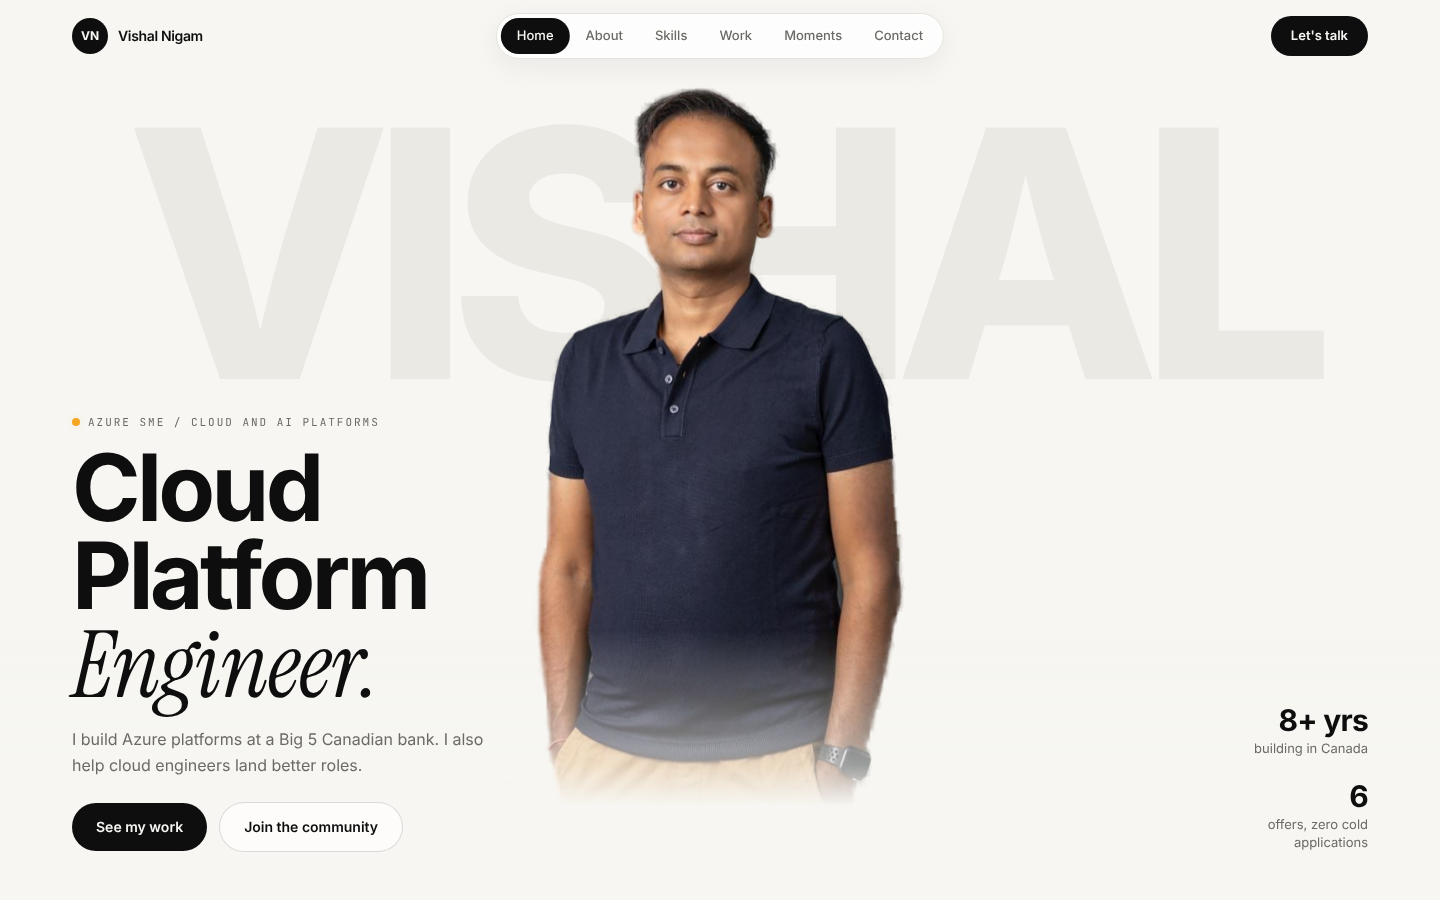
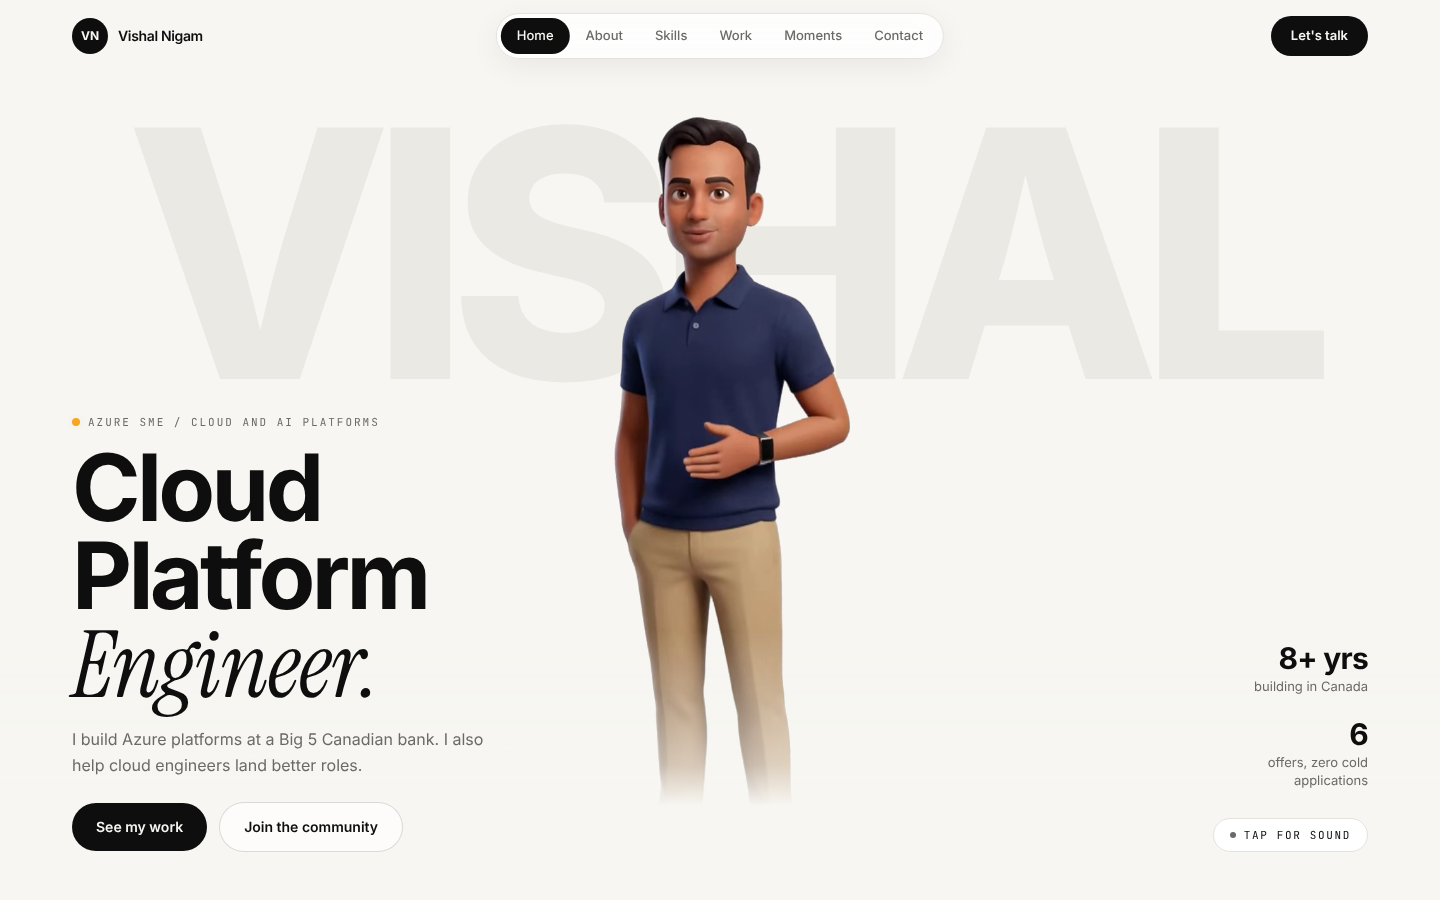
README: step-by-step animated hero guide with two paths
Path 1 makes a cartoon image, Path 2 makes it talk in your voice. Web
tools only, no command line. White .jpg and .mp4 backgrounds now blend
into the page automatically, so downloaded files work as-is.

Claude-Session: https://claude.ai/code/session_01KDsvCvMFaFZr7ZncqejwsZ

Changed region(s): [[0.375, 0.0933, 0.625, 0.9022], [0.875, 0.7156, 0.9688, 0.9022], [0.875, 0.9022, 0.9375, 0.9644]]

diff --git a/src/components/Hero.tsx b/src/components/Hero.tsx
@@ -49,6 +49,12 @@ export function Hero() {
     if (webkitOnly || ios) return false;
     return document.createElement('video').canPlayType('video/webm; codecs="vp9"') !== '';
   });
+  // MP4 and JPG files cannot be transparent, so we assume they sit on white.
+  // Multiply-blending the whole avatar layer makes that white disappear into the page,
+  // so people can drop in a downloaded file with no editing. PNG, WebP and the
+  // transparent WebM already have real transparency and skip the blend.
+  const shown = hero.video ? (alpha ? hero.videoTransparent! : hero.video) : hero.poster;
+  const blendWhite = !!shown && /\.(mp4|mov|m4v|jpe?g)(\?|$)/i.test(shown);
 
   return (
     <section id="home" ref={ref} className="relative h-[100svh] min-h-[620px] overflow-hidden bg-paper">
@@ -78,7 +84,9 @@ export function Hero() {
         initial={reduce ? false : { opacity: 0, y: 60 }}
         animate={{ opacity: 1, y: 0 }}
         transition={{ duration: 1.4, delay: 0.35, ease }}
-        className="absolute bottom-0 left-1/2 h-[72svh] w-full max-w-[640px] -translate-x-1/2 origin-bottom md:h-[90svh]"
+        className={`absolute bottom-0 left-1/2 h-[72svh] w-full max-w-[640px] -translate-x-1/2 origin-bottom md:h-[90svh] ${
+          blendWhite ? 'mix-blend-multiply' : ''
+        }`}
       >
         {hero.video ? (
           <video

diff --git a/src/types.ts b/src/types.ts
@@ -14,16 +14,19 @@ export type HeroConfig = {
   /** Giant faded word behind your video. Usually your first name. */
   backdropWord: string;
   /**
-   * Your talking avatar. Put the file in /public/media and write "media/hero.mp4".
-   * Leave empty ("") to show a placeholder.
+   * Your talking avatar video. Put the file in /public/media and write "media/hero.mp4".
+   * Leave empty ("") to use only the image in `poster`. See README, "Create your animated hero".
    */
   video: string;
-  /** Optional still image shown before the video loads (or instead of a video). */
+  /**
+   * Your hero image: shown while the video loads, or on its own when `video` is empty.
+   * Use a .jpg on a white background (the white blends into the page) or a transparent .png.
+   */
   poster: string;
   /**
    * Optional. The same video with a transparent background (.webm, VP9 with alpha).
    * Chrome, Edge, Firefox and Android use it so your name shows around you.
-   * Safari and iPhone fall back to `video`. See docs/HERO-VIDEO.md.
+   * Safari and iPhone fall back to `video`. See README, "Optional extras for Path 2".
    */
   videoTransparent?: string;
   /** Optional transparent poster (.webp or .png) to pair with videoTransparent. */

diff --git a/src/portfolio.config.ts b/src/portfolio.config.ts
@@ -27,9 +27,10 @@ const config: PortfolioConfig = {
     title: 'Platform *Engineer.*',
     intro: 'I build cloud platforms that ship fast and stay up. Currently helping teams run Kubernetes at scale.',
     backdropWord: 'ALEX',
-    // Your talking video. See docs/HERO-VIDEO.md. Example: 'media/hero.mp4'
+    // Your animated hero. Full guide: README, "Create your animated hero".
+    // Path 1 (image only): video: '', poster: 'media/hero.jpg'
+    // Path 2 (talking video): video: 'media/hero.mp4', poster: 'media/hero.jpg'
     video: '',
-    // A cut-out photo of you on a transparent or white background. Example: 'media/hero.png'
     poster: '',
     // Optional: the same video with a transparent background (.webm) so your name shows around you.
     videoTransparent: '',

diff --git a/README.md b/README.md
@@ -7,7 +7,7 @@ Free to use. Live on GitHub Pages in about 15 minutes.
 
 **What you get**
 
-- **Talking hero.** You, standing center screen, with your name huge behind you.
+- **Animated hero.** A cartoon version of you, standing center screen, with your name huge behind you. It can wave and talk in your voice.
 - **Flipping ID badge** on a lanyard. Tap to flip, drag to swing.
 - **Periodic table of your tools.** Filter by Cloud, IaC, Containers, CI/CD, and more.
 - **Certifications, projects, and "proud moments"** that scroll sideways.
@@ -28,16 +28,17 @@ Name it `your-github-username.github.io` and your site will live at
 Any other name works too. Your site will be at `https://your-github-username.github.io/repo-name/`.
 
 ### 2. Turn on GitHub Pages
-In your new repo: **Settings > Pages > Source > GitHub Actions**. That's it.
+In your new repo: **Settings > Pages > Source > GitHub Actions**.
+
+Do this before your first edit. If Source stays on "Deploy from a branch", your site shows raw code instead of the finished page.
 
 ### 3. Add your details
 - Open `src/portfolio.config.ts` and click the pencil icon to edit it right on GitHub.
 - Replace every example with your own info. Titles accept `*word*` to make a word italic serif.
-- Upload your photos: open `public/media`, then **Add file > Upload files**.
-  - `hero.png`: you, background removed. See [docs/HERO-VIDEO.md](docs/HERO-VIDEO.md).
-  - `headshot.jpg`: a square headshot for the badge.
+- Upload your files: open `public/media`, then **Add file > Upload files**.
+  - Your hero image or video. See [Create your animated hero](#create-your-animated-hero) below.
+  - `headshot.jpg`: a square headshot for the badge. Then set `badge.photo: 'media/headshot.jpg'`.
   - `resume.pdf`: optional.
-- Point the config at them, for example `poster: 'media/hero.png'`.
 
 ### 4. Commit
 Click **Commit changes**. Open the **Actions** tab and wait for the green tick (about 2 minutes).
@@ -45,8 +46,171 @@ Your site is live.
 
 ---
 
-## Want the talking video?
-Follow [docs/HERO-VIDEO.md](docs/HERO-VIDEO.md). It has the exact AI prompt to turn your photo into a talking intro, and how to keep the file small.
+## Create your animated hero
+
+Pick the path that suits you. Both use web tools only. No code, no command line.
+
+| | Path 1: Animated image | Path 2: Talking animated video |
+|---|---|---|
+| What visitors see | A cartoon of you, gently floating | A cartoon of you that waves and talks in your voice |
+| Time | About 15 minutes | About 45 minutes |
+| Cost | About $0.15 to $0.60 | About $1 to $2 |
+| Tools | fal.ai | fal.ai, plus your phone or ElevenLabs |
+
+You can start with Path 1 today and upgrade to Path 2 later. Path 2 starts with the same image.
+
+Prices are what the tools charged when this guide was written. They change often, so check each tool's pricing page before you run anything.
+
+### Before you start
+1. **Create a fal.ai account** at [fal.ai](https://fal.ai) and add a small amount of credit, about $5.
+   fal runs the AI models. Every model page has a simple web form, called the playground, so you never touch code.
+2. **Take two photos** in good light, against a plain wall:
+   - **Full body**, standing straight, facing the camera, hands relaxed. Wear what you want your cartoon to wear.
+   - **Headshot**, face clearly visible, looking at the camera.
+
+---
+
+### Path 1: Animated image (no video)
+
+**Step 1. Turn your photos into a cartoon.**
+
+1. Open the [Nano Banana Pro edit](https://fal.ai/models/fal-ai/nano-banana-pro/edit) model page on fal.ai.
+2. Upload both photos: full body first, headshot second.
+3. Paste this prompt. Replace the part in [brackets] with your outfit.
+
+```
+Turn the person in the first photo into a stylized 3D animated character, like a modern
+animated feature film. Use the second photo for the face. Keep the likeness clearly
+recognizable: same face shape, hairline, skin tone, eye color and friendly expression.
+Same outfit: [for example: navy polo shirt, khaki chinos, black smartwatch].
+Full body, standing upright, centered, facing the camera, relaxed confident pose,
+hands loosely in pockets. Slightly stylized proportions, soft clean shading,
+appealing and professional, not childish.
+Background: plain pure white (#FFFFFF), seamless, no floor line, no shadow on the
+background, only a very soft contact shadow under the feet.
+No text, no logos, no props.
+```
+
+4. Set these options:
+   - **Aspect ratio:** `3:4`
+   - **Resolution:** `2K`
+   - **Output format:** `JPEG`
+   - **Number of images:** 2 to 4, so you can pick the best one.
+5. Click **Run**. Each image costs about $0.15. Download the one that looks most like you.
+
+> Not quite right? Run it again and add one fix to the end of the prompt, such as
+> "make the hairline match the photo" or "add his glasses".
+
+**Step 2. Add it to your site.**
+
+1. Rename the file to `hero.jpg` and upload it to `public/media`.
+2. In `src/portfolio.config.ts`, set:
+
+```ts
+video: '',
+poster: 'media/hero.jpg',
+```
+
+3. Commit. Done.
+
+**Why JPEG?** The site automatically blends a white background into the page, so your name shows around you. It does this for `.jpg` images and `.mp4` videos.
+If you remove the background yourself and save a transparent `.png`, that works too. Just point `poster` at the `.png`.
+
+---
+
+### Path 2: Talking animated video
+
+You need the cartoon from **Path 1, Step 1** first. Keep that image file.
+
+**Step 1. Record your voice line.**
+
+Keep it short, about 8 seconds. Here is a script you can adapt:
+
+```
+Hi, I'm [your name]. I build [what you build, for example: cloud platforms on AWS].
+Scroll down, let me show you.
+```
+
+Choose one:
+
+- **Your phone (free).** Record in a quiet room with the phone about 20 cm from your mouth. iPhone Voice Memos (`.m4a`) and Android recorder files both work.
+- **An AI voice clone ([ElevenLabs](https://elevenlabs.io)).** Clone your voice once, then type the script and download it as MP3. Voice cloning usually needs a paid plan, so check their pricing first.
+
+**Step 2. Make your cartoon talk.**
+
+1. Open the [Kling AI Avatar v2 Pro](https://fal.ai/models/fal-ai/kling-video/ai-avatar/v2/pro) model page on fal.ai.
+2. **Image:** upload your cartoon from Path 1.
+3. **Audio:** upload your voice recording.
+4. **Prompt:** paste this.
+
+```
+The animated character stands centered on a pure white background and talks warmly to
+the camera. A small friendly wave at the start, then relaxed natural hand gestures
+while speaking. Static camera, no zoom, no cuts. The background stays pure white.
+```
+
+5. Click **Run**. It takes about 3 to 5 minutes and costs about $0.12 per second of audio, so roughly $1 for 8 seconds.
+6. Watch the result. If the lip sync or motion looks off, run it once more. Each run comes out a little different.
+7. Download the video.
+
+**Step 3. Add it to your site.**
+
+1. Rename the video to `hero.mp4` and upload it to `public/media`.
+2. Also upload your cartoon image as `hero.jpg`. Visitors see it while the video loads.
+3. In `src/portfolio.config.ts`, set:
+
+```ts
+video: 'media/hero.mp4',
+poster: 'media/hero.jpg',
+```
+
+4. Commit. Done.
+
+The video plays muted, because browsers block autoplay with sound. Visitors tap **"Tap for sound"** to hear you.
+
+> **GitHub upload limit:** the web uploader takes files up to 25 MB. An 8-second avatar video is
+> usually 3 to 5 MB, so this is rarely a problem.
+
+---
+
+### Optional extras for Path 2
+
+These are for people comfortable with the command line. Your site works fine without them.
+
+**Smaller file.** If you have [ffmpeg](https://ffmpeg.org) installed, this shrinks the video to well under 1 MB, so it loads faster on phones:
+
+```bash
+ffmpeg -i hero.mp4 -vf "scale=-2:1280" -c:v libx264 -crf 25 -preset slow -c:a aac -b:a 96k -movflags +faststart hero-small.mp4
+```
+
+**A truly transparent version.** The `.mp4` blend looks great almost everywhere. For a perfect edge in Chrome, Edge, Firefox and Android, add a transparent `.webm`. Safari and iPhone keep using the `.mp4` automatically.
+
+```bash
+ffmpeg -i hero.mp4 -filter_complex "[0:v]colorlevels=rimax=0.965:gimax=0.965:bimax=0.965,scale=-2:1280,format=rgba,colorkey=0xFFFFFF:0.10:0.08,format=yuva420p[v]" -map "[v]" -map 0:a -c:v libvpx-vp9 -pix_fmt yuva420p -b:v 0 -crf 34 -auto-alt-ref 0 -c:a libopus hero.webm
+```
+
+Upload `hero.webm` to `public/media`, then add this line next to `video` in the config:
+
+```ts
+videoTransparent: 'media/hero.webm',
+```
+
+**Trim the empty space.** If you look small on the page, crop the extra white space around you. Most online video croppers work. Keep the full height, from the top of your head to your feet.
+
+---
+
+### Hero troubleshooting
+
+| Problem | Fix |
+|---|---|
+| A white box shows around me | Your file is `.png` with a white background. Save it as `.jpg` instead, or remove the background. |
+| My name doesn't show behind me | Check that `backdropWord` in the config is set. |
+| The cartoon doesn't look like me | Use a sharper headshot. Add one specific fix to the prompt and run again. |
+| fal says the image can't be processed | Some models refuse real photos. Make the cartoon first (Path 1), then animate the cartoon. |
+| The video won't play on iPhone | Make sure the file is `.mp4`. iPhone can't play `.webm`. |
+| My site shows raw code | Settings > Pages > Source must be **GitHub Actions**. |
+
+---
 
 ## Run it on your computer (optional)
 You need Node.js 20 or newer.
@@ -84,6 +248,8 @@ Want deeper changes? Each section is its own file in `src/components`.
 ## Credits
 Template by **Vishal Nigam**, Azure SME and mentor for cloud engineers.
 [LinkedIn](https://www.linkedin.com/in/nigam-vishal) · [Instagram @thrivewithvishal](https://www.instagram.com/thrivewithvishal/)
+
+The demo hero was made with exactly this guide: Path 2, using an ElevenLabs voice clone.
 
 The footer link back here is optional. If this helped you, keeping it is a nice thank-you.
 

diff --git a/docs/HERO-VIDEO.md b/docs/HERO-VIDEO.md
@@ -1,107 +1,8 @@
-# Make your talking hero video
+# Hero video guide
 
-The hero shows you standing in the middle of the page, with your name huge behind you.
-You have three options. Start with A, upgrade later.
+This guide moved into the main README so everything is in one place.
 
-| Option | Time | Cost | Look |
-|---|---|---|---|
-| A. Still photo | 10 min | Free | Your cut-out photo, gently floating |
-| B. Animated you (recommended) | 30 min | About $1 to $5 | A 3D cartoon of you that waves and talks in your voice |
-| C. Real video of you | 30 min | Varies | Photoreal. Many AI video tools refuse real-person photos, so B is easier |
+Go to **[README: Create your animated hero](../README.md#create-your-animated-hero)**. It has two paths:
 
----
-
-## Option A: Still photo
-
-1. Take a photo standing, waist-up or full body, against a plain wall.
-2. Remove the background (remove.bg or Canva's background remover). Download as **PNG**.
-3. Save it as `public/media/hero.png`.
-4. In `src/portfolio.config.ts`, set `poster: 'media/hero.png'`.
-
----
-
-## Option B: Animated you, talking in your voice
-
-This is how the demo site was made. All three tools below have pay-as-you-go plans.
-Prices change, so check each site before you start.
-
-### Step 1. Turn your photo into a 3D character
-Use any AI image editor that accepts a reference photo (for example Nano Banana Pro on fal.ai, or ChatGPT image editing).
-Upload one full-body photo and one clear headshot, then use this prompt:
-
-```
-Turn the person in the first photo into a stylized 3D animated character, like a modern
-animated feature film. Keep the likeness clearly recognizable: same face shape, hairline,
-skin tone and expression. Same outfit: [describe your outfit].
-Full body, standing upright, centered, facing the camera, relaxed confident pose,
-hands loosely in pockets. Slightly stylized, soft clean shading, professional, not childish.
-Background: plain pure white (#FFFFFF), seamless, no floor line, no shadow on the background.
-No text, no logos, no props. Portrait 3:4.
-```
-
-Generate 2 to 4 options and pick the one that looks most like you.
-
-### Step 2. Record your voice line
-Keep it to about 8 seconds:
-
-```
-Hi, I'm [Name]. I build [what you build]. Scroll down, let me show you.
-```
-
-Record it on your phone, or use a voice clone (ElevenLabs works well).
-Save it as an MP3.
-
-### Step 3. Make the character talk
-Use a talking-avatar model that takes an image plus audio and lip-syncs them.
-The demo used **Kling AI Avatar v2 Pro** on fal.ai (about $1 for 8 seconds).
-Upload your character image and your MP3, with this prompt:
-
-```
-The animated character stands centered on a pure white background and talks warmly to the
-camera. Small friendly wave at the start, then relaxed natural hand gestures.
-Static camera, no zoom, no cuts. Background stays pure white.
-```
-
-### Step 4. Prepare the files for the site
-You need [ffmpeg](https://ffmpeg.org) installed. Run these from the project folder.
-Replace `input.mp4` with your downloaded video.
-
-**Solid version (works everywhere, required).** This turns the white background into the page colour, `#F7F6F2`:
-
-```bash
-ffmpeg -i input.mp4 -vf "colorlevels=rimax=0.965:gimax=0.965:bimax=0.965,lutrgb=r='if(gt(val,250),247,val)':g='if(gt(val,250),246,val)':b='if(gt(val,250),242,val)',scale=-2:1280,format=yuv420p" -c:v libx264 -crf 25 -c:a aac -movflags +faststart public/media/hero.mp4
-```
-
-**Transparent version (optional, recommended).** Chrome, Edge, Firefox and Android use this,
-so your name shows around you. Safari and iPhone automatically use the solid version:
-
-```bash
-ffmpeg -i input.mp4 -filter_complex "[0:v]colorlevels=rimax=0.965:gimax=0.965:bimax=0.965,scale=-2:1280,format=rgba,colorkey=0xFFFFFF:0.10:0.08,format=yuva420p[v]" -map "[v]" -map 0:a -c:v libvpx-vp9 -pix_fmt yuva420p -b:v 0 -crf 34 -auto-alt-ref 0 -c:a libopus public/media/hero.webm
-```
-
-**Poster frames** (shown while the video loads):
-
-```bash
-ffmpeg -i public/media/hero.mp4 -frames:v 1 public/media/hero-poster.jpg
-```
-
-### Step 5. Turn it on
-In `src/portfolio.config.ts`:
-
-```ts
-video: 'media/hero.mp4',
-poster: 'media/hero-poster.jpg',
-videoTransparent: 'media/hero.webm',   // optional
-posterTransparent: '',                 // optional, a transparent .webp or .png
-```
-
-Save. Done. Visitors can tap "Tap for sound" to hear your voice.
-
----
-
-## Troubleshooting
-
-- **A box shows around me:** your video background is not pure white. Re-generate it, or raise the `colorkey` similarity from `0.10` to `0.15`.
-- **Grey or white halo around my hair:** lower the `colorkey` similarity to `0.06`.
-- **The video won't autoplay on iPhone:** it must start muted. The site already does this.
-- **The file is large:** raise `-crf` (for example 28 for MP4, 38 for WebM). Aim for under 2 MB.
+1. **Animated image.** A cartoon of you, about 15 minutes, no video needed.
+2. **Talking animated video.** Your cartoon waves and talks in your voice, about 45 minutes.
